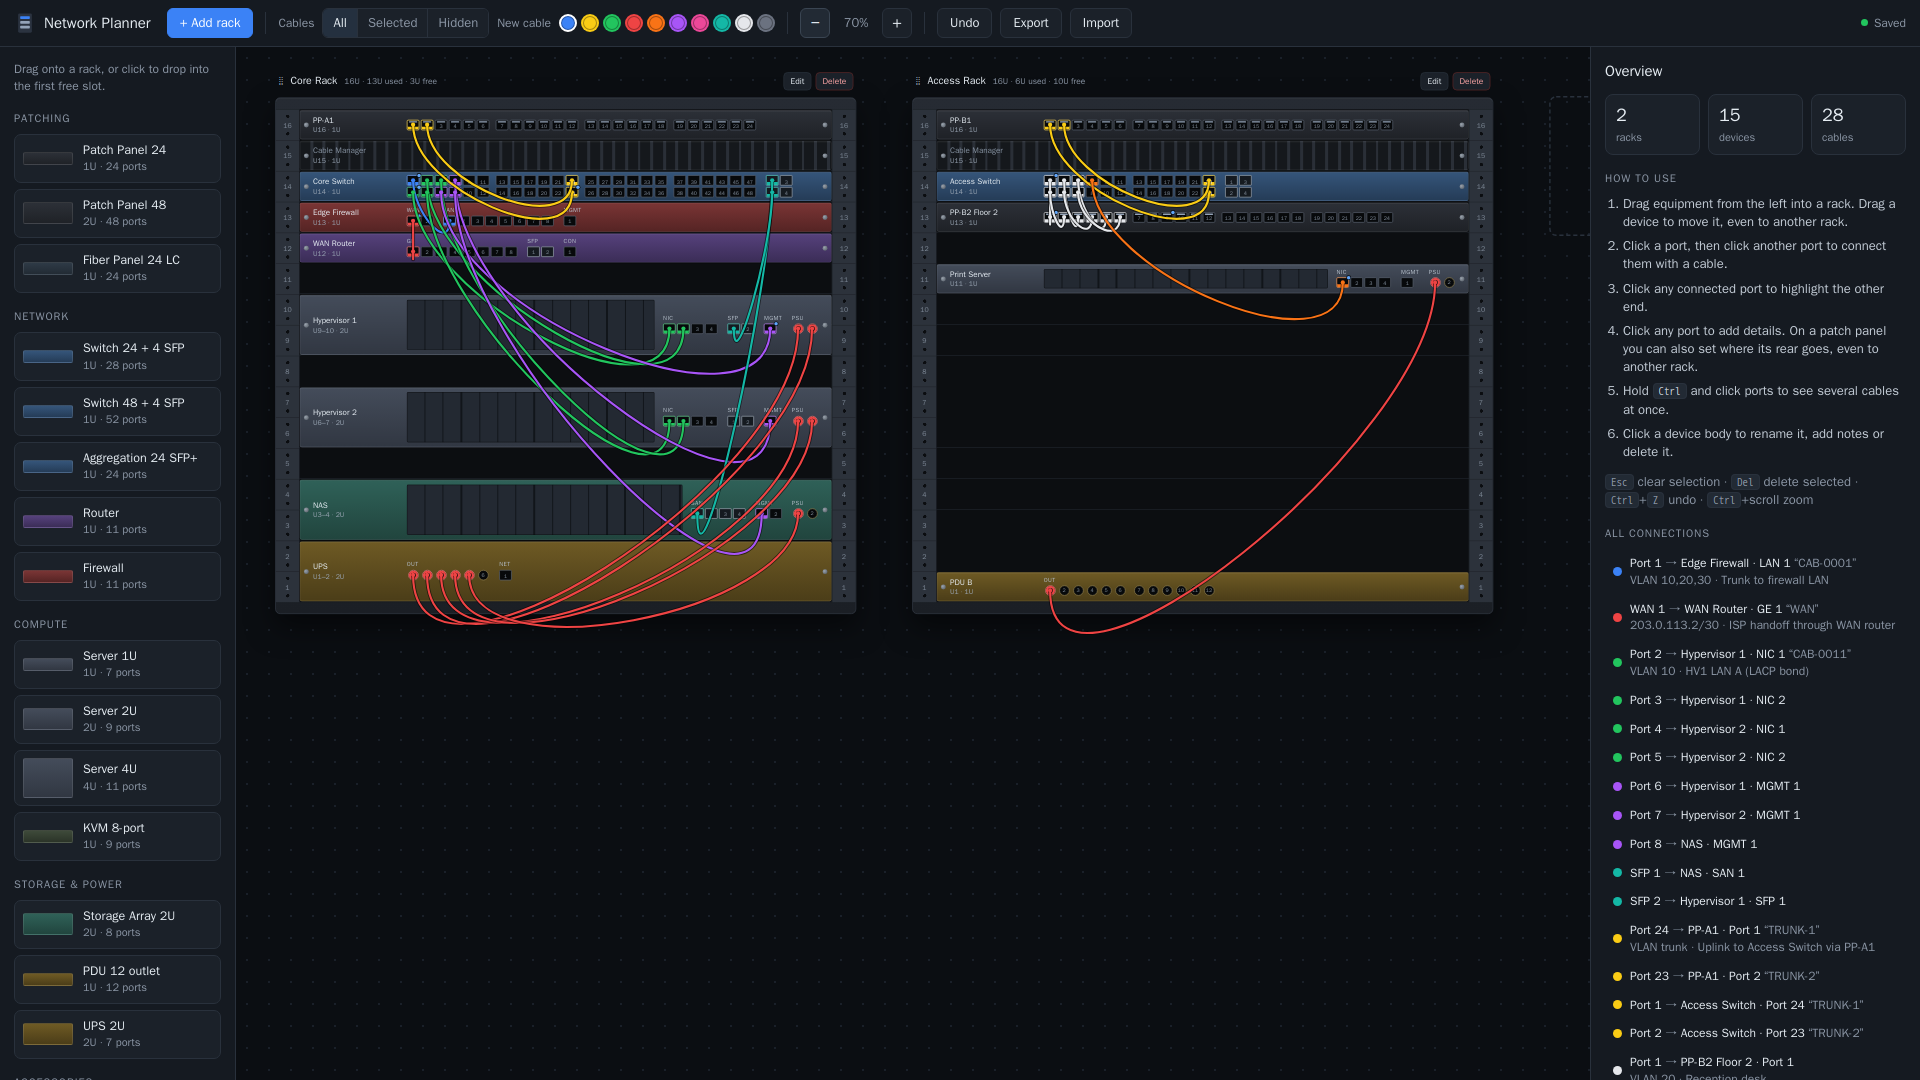
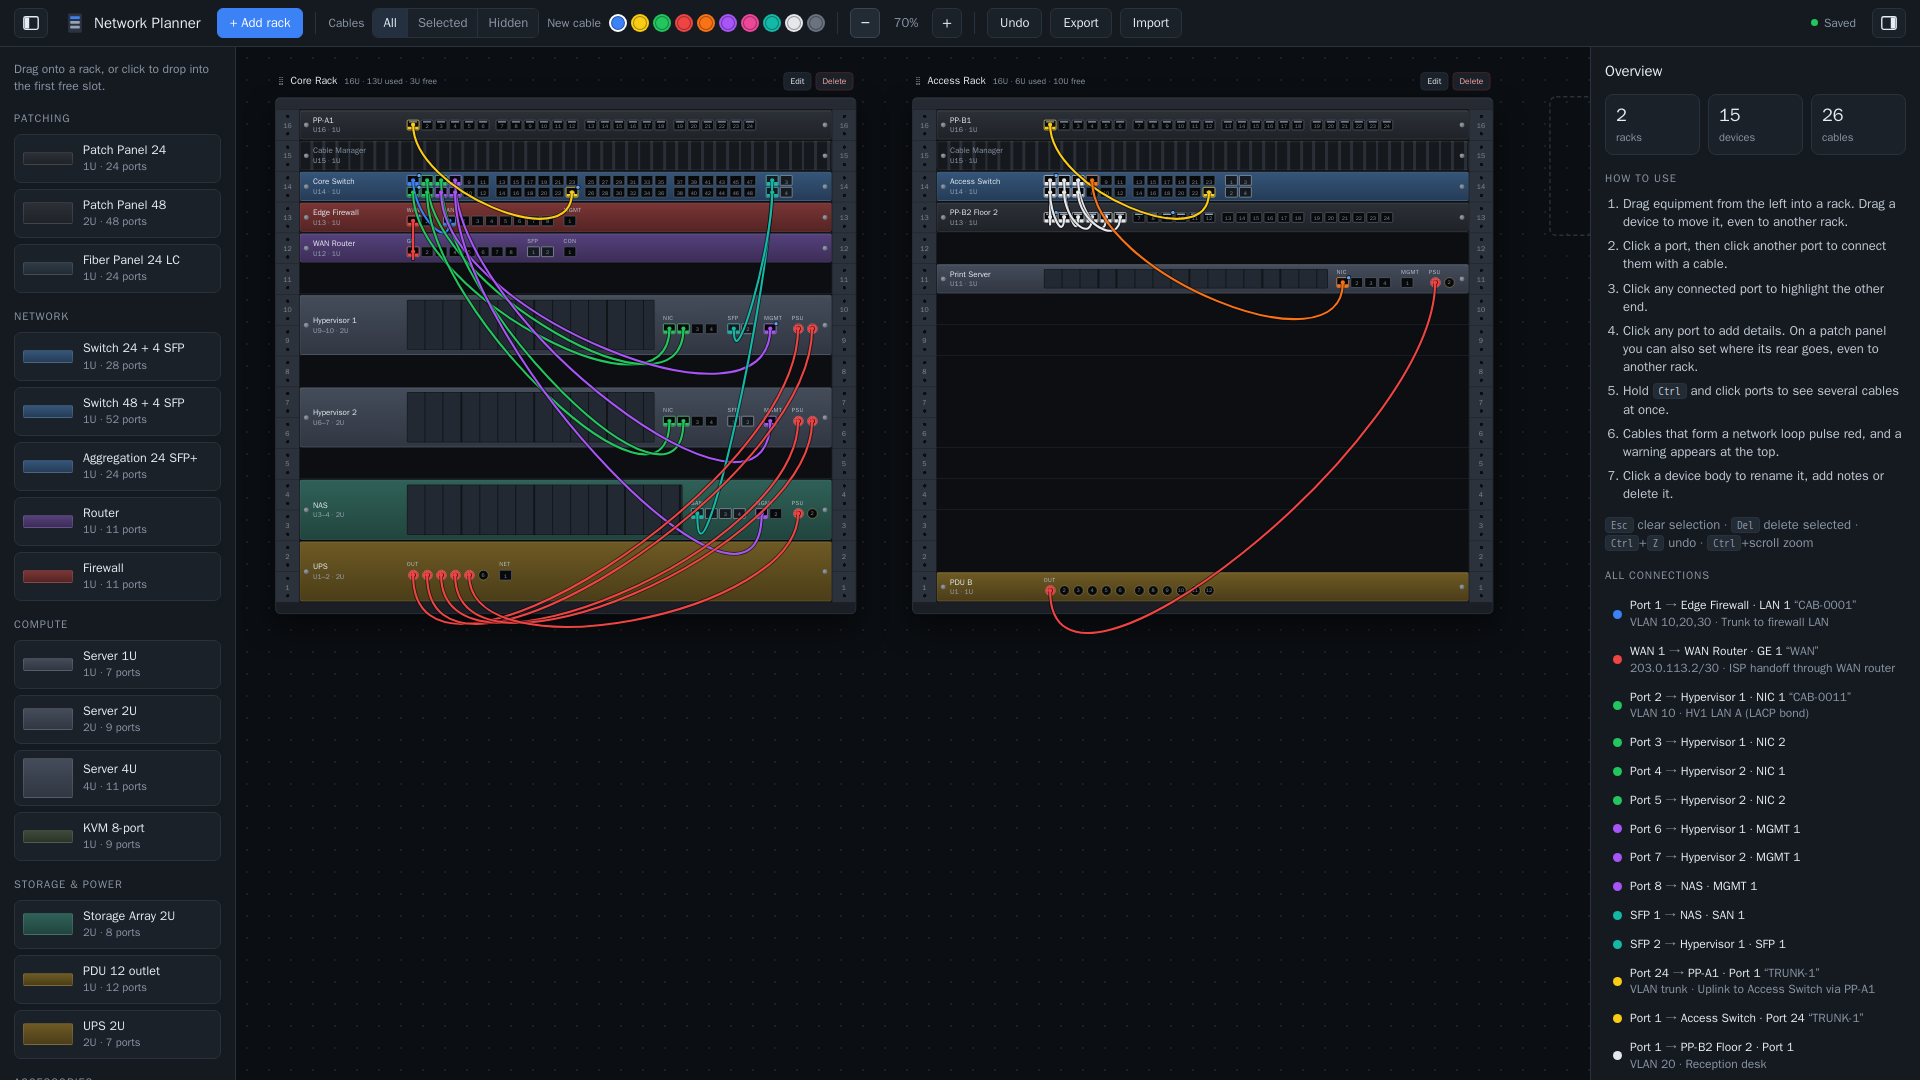
Add buttons to hide and show the side panels
- Toolbar toggles at the far left (equipment palette) and far right
  (inspector); the racks area widens to fill the space
- Keyboard shortcuts [ and ], state remembered per browser
- The loop warning button always reopens the inspector
- README: panel section with a new screenshot; all screenshots re-taken
  so they show the current toolbar (fictional demo layout)

diff --git a/public/app.js b/public/app.js
@@ -1116,11 +1116,34 @@
   // ------------------------------------------------------------------
   // Events
   // ------------------------------------------------------------------
+  // Side panels (equipment palette on the left, inspector on the right) can be
+  // collapsed. The choice is per browser, remembered in localStorage.
+  const panels = { left: true, right: true };
+  try { Object.assign(panels, JSON.parse(localStorage.getItem('networkplanner.panels')) || {}); } catch { /* ignore */ }
+  function applyPanels() {
+    $('.layout').classList.toggle('hide-left', !panels.left);
+    $('.layout').classList.toggle('hide-right', !panels.right);
+    for (const [side, label] of [['left', 'equipment panel'], ['right', 'details panel']]) {
+      const b = $(`#toggle-${side}`);
+      b.setAttribute('aria-pressed', String(panels[side]));
+      b.title = `${panels[side] ? 'Hide' : 'Show'} the ${label} (${side === 'left' ? '[' : ']'})`;
+    }
+    try { localStorage.setItem('networkplanner.panels', JSON.stringify(panels)); } catch { /* storage unavailable */ }
+  }
+  function togglePanel(side, show = !panels[side]) {
+    panels[side] = show;
+    applyPanels();
+  }
+
   function bindEvents() {
     // Toolbar
+    applyPanels();
+    $('#toggle-left').addEventListener('click', () => togglePanel('left'));
+    $('#toggle-right').addEventListener('click', () => togglePanel('right'));
     $('#btn-add-rack').addEventListener('click', addRack);
     // Loop warning: show the overview (which lists every loop) and the first loop.
     $('#loop-alert').addEventListener('click', () => {
+      togglePanel('right', true);
       clearSelection();
       renderInspector();
       $('#inspector').scrollTo({ top: 0 });
@@ -1431,6 +1454,8 @@
       if ((e.ctrlKey || e.metaKey) && e.key.toLowerCase() === 'z' && !typing) { e.preventDefault(); undo(); return; }
       if (typing || $('#dlg').open) return;
       if (e.key === 'Escape') clearSelection();
+      if (e.key === '[' && !e.ctrlKey && !e.metaKey) togglePanel('left');
+      if (e.key === ']' && !e.ctrlKey && !e.metaKey) togglePanel('right');
       if (e.key === 'Delete' || e.key === 'Backspace') {
         if (ui.conn) { const id = ui.conn; ui.conn = null; commit(() => { state.connections = state.connections.filter((x) => x.id !== id); }); }
         else if (ui.device) deleteDevice(ui.device);

diff --git a/public/styles.css b/public/styles.css
@@ -83,7 +83,19 @@ button, input, select, textarea { font: inherit; color: inherit; }
 .save-status.warn::before { background: var(--warn); }
 
 /* ---------- Layout ---------- */
-.layout { flex: 1; display: grid; grid-template-columns: 236px 1fr 330px; min-height: 0; }
+/* Side panels can be collapsed with the toolbar toggles (.hide-left / .hide-right). */
+.layout {
+  --left: 236px; --right: 330px;
+  flex: 1; display: grid; grid-template-columns: var(--left) minmax(0, 1fr) var(--right); min-height: 0;
+  transition: grid-template-columns .2s ease;
+}
+.layout.hide-left { --left: 0px; }
+.layout.hide-right { --right: 0px; }
+.layout.hide-left .palette, .layout.hide-right .inspector { padding: 0; border: 0; overflow: hidden; visibility: hidden; }
+.panel-toggle { padding: 5px 7px; color: var(--muted); }
+.panel-toggle .pane { fill: currentColor; opacity: .25; transition: opacity .15s; }
+.panel-toggle[aria-pressed="true"] { color: var(--text); }
+.panel-toggle[aria-pressed="true"] .pane { opacity: 1; }
 .palette, .inspector { background: var(--panel); overflow: auto; padding: 14px; }
 .palette { border-right: 1px solid var(--line); }
 .inspector { border-left: 1px solid var(--line); }
@@ -408,5 +420,7 @@ dialog h3 { margin: 0 0 14px; }
 dialog menu { display: flex; justify-content: flex-end; gap: 8px; margin: 8px 0 0; padding: 0; }
 
 @media (max-width: 1100px) {
-  .layout { grid-template-columns: 200px 1fr 280px; }
+  .layout { --left: 200px; --right: 280px; }
+  .layout.hide-left { --left: 0px; }
+  .layout.hide-right { --right: 0px; }
 }

diff --git a/public/index.html b/public/index.html
@@ -9,6 +9,9 @@
 </head>
 <body>
   <header class="topbar">
+    <button id="toggle-left" class="btn panel-toggle" aria-pressed="true" aria-controls="palette">
+      <svg width="18" height="18" viewBox="0 0 20 20" aria-hidden="true"><rect x="2" y="3" width="16" height="14" rx="2" fill="none" stroke="currentColor" stroke-width="1.5"/><rect class="pane" x="3" y="4" width="5" height="12" rx="1"/></svg>
+    </button>
     <div class="brand">
       <svg width="22" height="22" viewBox="0 0 32 32" aria-hidden="true"><rect x="6" y="2" width="20" height="28" rx="2" fill="#2b3340"/><rect x="9" y="6" width="14" height="4" rx="1" fill="#3b82f6"/><rect x="9" y="13" width="14" height="4" rx="1" fill="#94a3b8"/><rect x="9" y="20" width="14" height="4" rx="1" fill="#94a3b8"/></svg>
       Network Planner
@@ -37,6 +40,9 @@
     </div>
     <button id="loop-alert" class="loop-alert" hidden title="Show the network loops"></button>
     <div id="save-status" class="save-status">Loading…</div>
+    <button id="toggle-right" class="btn panel-toggle" aria-pressed="true" aria-controls="inspector">
+      <svg width="18" height="18" viewBox="0 0 20 20" aria-hidden="true"><rect x="2" y="3" width="16" height="14" rx="2" fill="none" stroke="currentColor" stroke-width="1.5"/><rect class="pane" x="12" y="4" width="5" height="12" rx="1"/></svg>
+    </button>
   </header>
 
   <main class="layout">

diff --git a/README.md b/README.md
@@ -19,6 +19,7 @@ It runs in a single small container, saves automatically, and needs no database.
 - **Port details:** write free-text notes on any port.
 - **Patch panel rear connections:** record where the permanent cabling behind a panel goes, to another panel in any rack or to a wall jack or room. The app then shows the **full path** of a cable through the panels.
 - **Documentation output:** download a CSV cable schedule, or export and import the whole layout as JSON.
+- **Workspace:** hide either side panel with a toolbar button (or `[` / `]`) to give the racks more room.
 - **Everyday use:** undo, zoom and keyboard shortcuts, with autosave to the server.
 
 ```
@@ -96,6 +97,10 @@ The container runs as the unprivileged `node` user and includes a `HEALTHCHECK` 
 ## Using the app
 
 The screen has three columns: the **equipment palette** (left), the **racks** (centre) and the **inspector** (right).
+
+**Hiding the side panels:** the panel buttons at the far left and far right of the toolbar hide or show the palette and the inspector. The racks area widens to fill the space. You can also press `[` for the left panel and `]` for the right. Each browser remembers the setting. Clicking the loop warning always reopens the inspector.
+
+![Both side panels hidden, so two full racks fit side by side at 100% zoom](docs/screenshots/panels-hidden.png)
 
 ### Racks
 - **+ Add rack** creates a rack of any height from 1 to 100U. Racks sit side by side, and cables can run between them.
@@ -211,7 +216,7 @@ The **Cables: All / Selected / Hidden** toggle controls how many cables are draw
 - **Export / Import**: back up or restore the whole layout as a JSON file.
 - **Undo**: `Ctrl+Z`, up to 150 steps.
 - **Zoom**: the −/+ buttons, or `Ctrl` + mouse wheel.
-- **Keyboard**: `Esc` clears the selection, and `Delete` removes the selected cable or device.
+- **Keyboard**: `Esc` clears the selection, `Delete` removes the selected cable or device, and `[` / `]` hide or show the left / right panel.
 - **Autosave**: every change is saved to the server within half a second. The indicator in the top right shows *Saved*. If the server can't be reached, changes are kept in the browser and the indicator says so.
 
 ---
